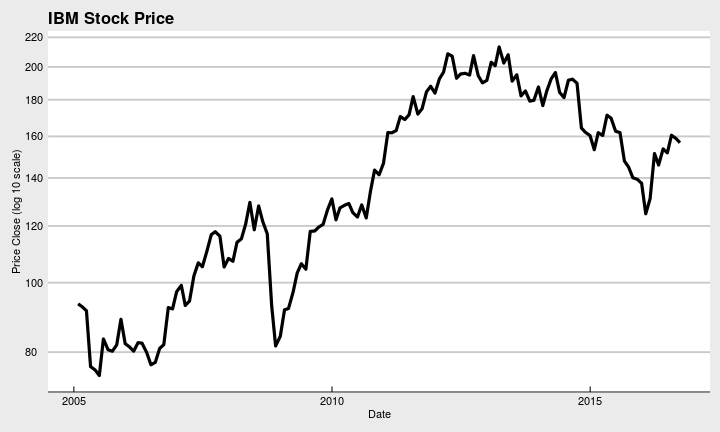
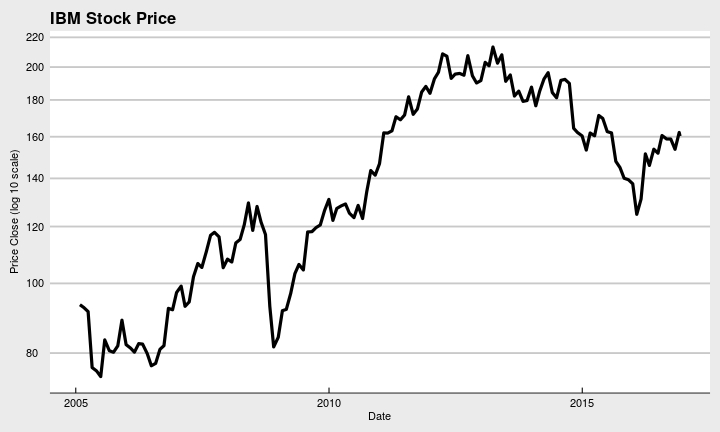
New post: Pipe Dream

diff --git a/_posts/2016-12-07-pipe-dream.md b/_posts/2016-12-07-pipe-dream.md
@@ -1,0 +1,83 @@
+---
+layout: post
+title: "Pipe Dream"
+subtitle: "Plusses and Arrows and Percents, oh my!."
+categories: [Solutions]
+tags: [magrittr, ggplot]
+images:
+  - url: /img/posts/pipes.png
+    alt: Pipes
+    title: Pipe Dream
+---
+
+Do you continually substitute "%>%" for "+" when switching between data wrangling and data visualization? I've got just the solution for you!
+
+{% assign image = page.images[0] %}
+{% include image.html image=image %}
+
+Count myself as one of those people that continually use a pipe instead of a plus and vice-verca when I'm writing a lot of code. Sir Hadley has basically shit the door on ever switching ggplot to using magrittr pipes and I don't blame him. But he can't stop me from doing whatever the heck I want.
+
+In the following code, I took the sample ggplot code from the help and modified it to use magrittr.
+
+
+{% highlight r %}
+library(magrittr)
+library(ggplot2)
+library(dplyr)
+geom_point_p = function(p, ...) {
+  return(
+    p + geom_point(...)
+  )
+}
+
+geom_errorbar_p = function(p, ...) {
+  return(
+    p + geom_errorbar(...)
+  )
+}
+
+df = data.frame(
+  gp = factor(rep(letters[1:3], each = 10)),
+  y = rnorm(30)
+)
+ds = plyr::ddply(df, "gp", plyr::summarise, mean = mean(y), sd = sd(y))
+
+# The summary data frame ds is used to plot larger red points on top
+# of the raw data. Note that we don't need to supply `data` or `mapping`
+# in each layer because the defaults from ggplot() are used.
+ggplot(df, aes(gp, y)) %>%
+  geom_point_p() %>%
+  geom_point_p(data = ds, aes(y = mean), colour = 'red', size = 3)
+{% endhighlight %}
+
+![plot of chunk unnamed-chunk-1](https://dariustg.github.io/figure/source/2016-12-07-pipe-dream/unnamed-chunk-1-1.png)
+
+{% highlight r %}
+# Same plot as above, declaring only the data frame in ggplot().
+# Note how the x and y aesthetics must now be declared in
+# each geom_point() layer.
+ggplot(df) %>%
+  geom_point_p(aes(gp, y)) %>%
+  geom_point_p(data = ds, aes(gp, mean), colour = 'red', size = 3)
+{% endhighlight %}
+
+![plot of chunk unnamed-chunk-1](https://dariustg.github.io/figure/source/2016-12-07-pipe-dream/unnamed-chunk-1-2.png)
+
+{% highlight r %}
+# Alternatively we can fully specify the plot in each layer. This
+# is not useful here, but can be more clear when working with complex
+# mult-dataset graphics
+ggplot() %>%
+  geom_point_p(data = df, aes(gp, y)) %>%
+  geom_point_p(data = ds, aes(gp, mean), colour = 'red', size = 3) %>%
+  geom_errorbar_p(
+    data = ds,
+    aes(gp, mean, ymin = mean - sd, ymax = mean + sd),
+    colour = 'red',
+    width = 0.4
+  )
+{% endhighlight %}
+
+![plot of chunk unnamed-chunk-1](https://dariustg.github.io/figure/source/2016-12-07-pipe-dream/unnamed-chunk-1-3.png)
+
+I may have to roll this into a package at some point.

diff --git a/_posts/2016-09-15-its-time.md b/_posts/2016-09-15-its-time.md
@@ -55,12 +55,12 @@ tail(x.ibm_price_hist_monthly)
 
 {% highlight text %}
 ##             Close
-## 2016-04-29 145.94
-## 2016-05-31 153.74
-## 2016-06-30 151.78
 ## 2016-07-29 160.62
 ## 2016-08-31 158.88
-## 2016-09-27 156.77
+## 2016-09-30 158.85
+## 2016-10-31 153.69
+## 2016-11-30 162.22
+## 2016-12-06 160.35
 {% endhighlight %}
 
 To use ggplot with this data, we need to convert it back to a data.frame. This is a fairly simple process, but again, we don't want to continually do it so create a function.
@@ -83,12 +83,12 @@ tail(df.ibm_price_history_monthly)
 
 {% highlight text %}
 ##           Date  Close
-## 136 2016-04-29 145.94
-## 137 2016-05-31 153.74
-## 138 2016-06-30 151.78
 ## 139 2016-07-29 160.62
 ## 140 2016-08-31 158.88
-## 141 2016-09-27 156.77
+## 141 2016-09-30 158.85
+## 142 2016-10-31 153.69
+## 143 2016-11-30 162.22
+## 144 2016-12-06 160.35
 {% endhighlight %}
 
 
@@ -147,12 +147,12 @@ tail(x.ibm_ohlc_hist_monthly)
 
 {% highlight text %}
 ##            Data.Open Data.High Data.Low Data.Close
-## 2016-04-29    152.52    152.53   144.00     145.94
-## 2016-05-31    145.27    153.74   144.13     153.74
-## 2016-06-30    152.51    155.35   143.50     151.78
 ## 2016-07-29    152.35    162.65   151.68     160.62
 ## 2016-08-31    161.45    163.53   158.32     158.88
-## 2016-09-27    159.54    161.64   153.84     156.77
+## 2016-09-30    159.54    161.64   153.84     158.85
+## 2016-10-31    157.61    157.61   149.63     153.69
+## 2016-11-30    152.79    164.52   151.95     162.22
+## 2016-12-06    159.82    160.35   159.82     160.35
 {% endhighlight %}
 
 
